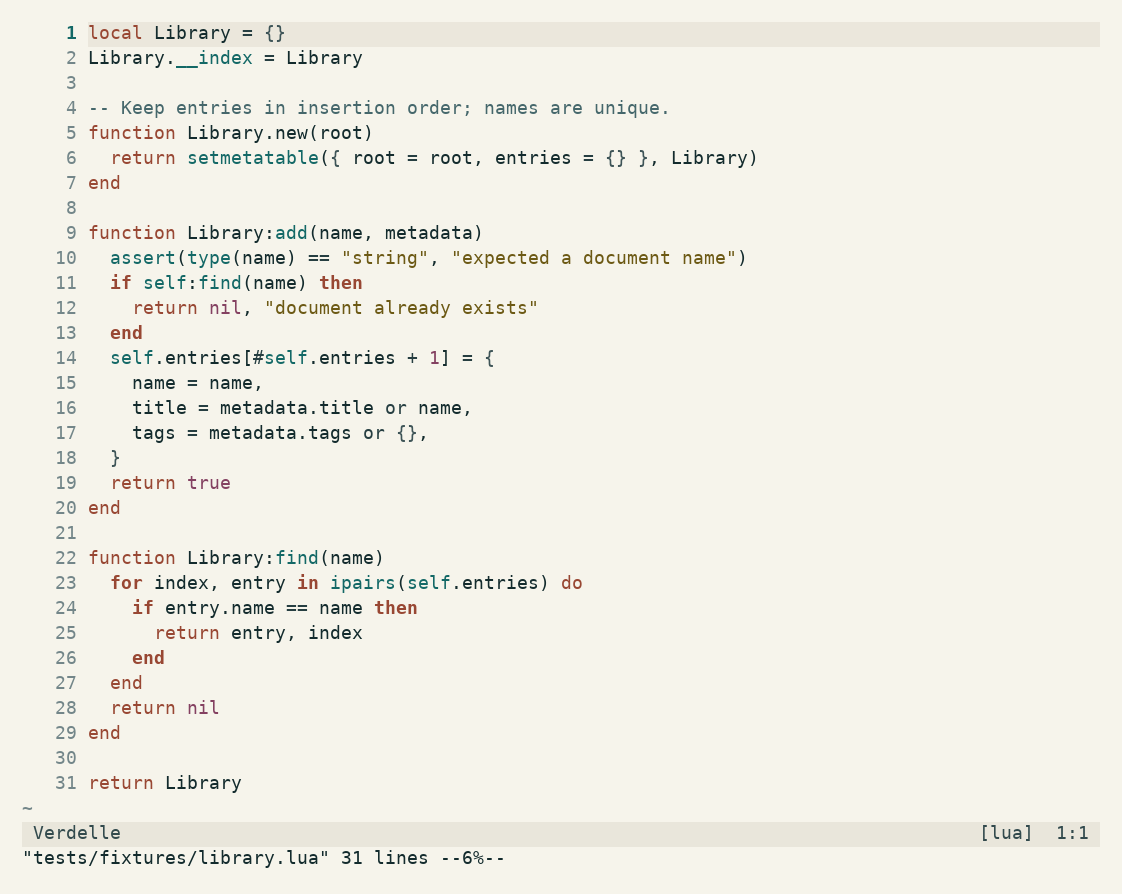
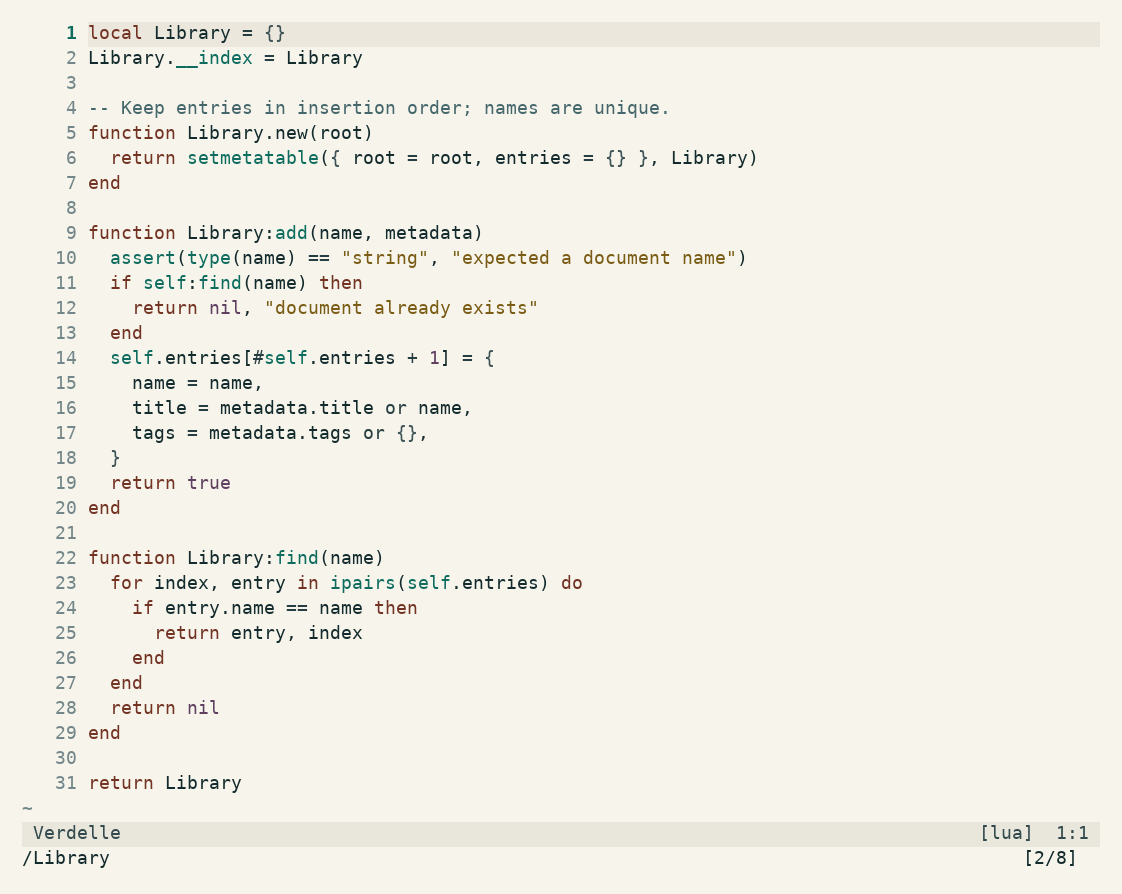
Publish tested editor and terminal previews and clear stale capture messages

diff --git a/tests/ui.py b/tests/ui.py
@@ -166,6 +166,7 @@ def run():
             for filename in ('library.lua', 'client.ts', 'index.py', 'catalog.rs', 'settings.json', 'notes.md'):
                 n.command(f'edit! tests/fixtures/{filename}')
                 n.command('normal! gg')
+                n.command("echo ''")
                 snapshot = n.snapshot()
                 assert find(snapshot, Path(filename).stem) or len(set(ident for row in snapshot[0] for ch, ident in row if ch.strip())) >= 4
                 if filename == 'library.lua':

diff --git a/docs/PREVIEWS.md b/docs/PREVIEWS.md
@@ -4,6 +4,15 @@ The README code views come from a real Neovim session in CI. `tests/ui.py` rende
 
 The complete set of captures is available in the Verify workflow artifacts: Lua, Python, TypeScript, Rust, JSON, Markdown, selection, completion, diagnostics, search, and diffs, in both variants. The Kitty artifact contains actual terminal screenshots of both generated themes.
 
+## Kitty
+
+These are screenshots of Kitty rendering truecolor samples and the generated ANSI palettes under Xvfb, using DejaVu Sans Mono:
+
+![Verdelle Dark in Kitty](../assets/kitty-dark.png)
+![Verdelle Light in Kitty](../assets/kitty-light.png)
+
+## Palette specimens
+
 These designed specimens show the palette and individual interface states:
 
 ![Verdelle Dark palette and interface specimen](../assets/verdelle-dark.png)
